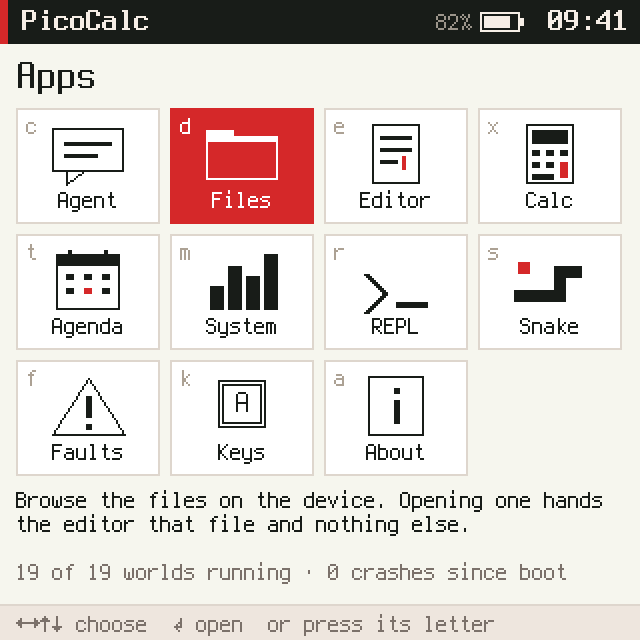
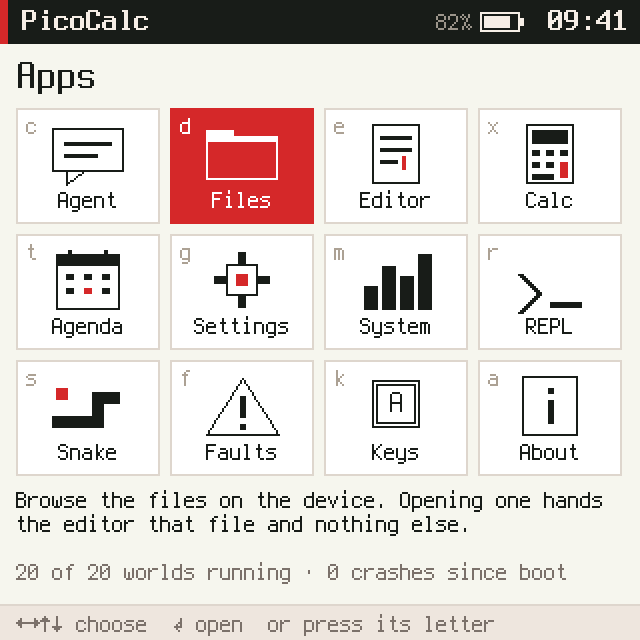
picocalc-os: a Settings app: Wi-Fi state, scan and join, the time zone, the provider (PICOCALC-SYS S4)
Settings (claims net.admin and sys.clock, launcher key g) shows the station's state, address, signal and
clock; scans on the way in (F2 again) with a detached chain that polls the port's result; joins an open
network at once and a locked one after a password typed as dots. The password is checked as the kernel will,
handed to net.join once and cleared, also on Esc and when the app loses focus; a held key does not type twice
into it. The zone page lists 22 zones with their UTC offsets and marks the one in effect. The provider page
says which host, dialect and model the agent uses and whether a key is provisioned, and that the key and
endpoint are set over USB only. Tests in tests/sysapps.test.mjs; captures 80 to 86 from scripts/settings.txt.

diff --git a/picocalc-os/js/apps/settings.js b/picocalc-os/js/apps/settings.js
@@ -1,0 +1,205 @@
+// Settings: the Wi-Fi station (its state, a scan, joining a network with a password typed here), the time zone, and
+// what the agent's provider is. The password is drawn as dots and cleared once it has been handed over; net.join
+// gives it to the port, and no operation gives it back. The API key and the endpoint are set over USB only.
+const ST_ZONES = [
+  ["UTC", "UTC0"],
+  ["London, Dublin, Lisbon", "GMT0BST,M3.5.0/1,M10.5.0"],
+  ["Berlin, Paris, Madrid, Rome", "CET-1CEST,M3.5.0,M10.5.0/3"],
+  ["Athens, Helsinki, Kyiv", "EET-2EEST,M3.5.0/3,M10.5.0/4"],
+  ["Istanbul, Moscow", "<+03>-3"],
+  ["Dubai", "<+04>-4"],
+  ["India", "IST-5:30"],
+  ["Bangkok, Jakarta", "<+07>-7"],
+  ["China, Singapore, Perth", "CST-8"],
+  ["Tokyo, Seoul", "JST-9"],
+  ["Brisbane", "AEST-10"],
+  ["Sydney, Melbourne", "AEST-10AEDT,M10.1.0,M4.1.0/3"],
+  ["Auckland", "NZST-12NZDT,M9.5.0,M4.1.0/3"],
+  ["Honolulu", "HST10"],
+  ["Anchorage", "AKST9AKDT,M3.2.0,M11.1.0"],
+  ["Los Angeles, Vancouver", "PST8PDT,M3.2.0,M11.1.0"],
+  ["Denver", "MST7MDT,M3.2.0,M11.1.0"],
+  ["Phoenix", "MST7"],
+  ["Chicago", "CST6CDT,M3.2.0,M11.1.0"],
+  ["New York, Toronto", "EST5EDT,M3.2.0,M11.1.0"],
+  ["Halifax", "AST4ADT,M3.2.0,M11.1.0"],
+  ["Sao Paulo, Buenos Aires", "<-03>3"],
+];
+const ST_MENU = ["wifi", "zone", "provider"];
+const ST_SCAN_MS = 12000, ST_JOIN_MS = 20000;
+const ST_DAYS = ["Sun", "Mon", "Tue", "Wed", "Thu", "Fri", "Sat"];
+const ST_MONTHS = ["Jan", "Feb", "Mar", "Apr", "May", "Jun", "Jul", "Aug", "Sep", "Oct", "Nov", "Dec"];
+
+// "EST5EDT,M3.2.0,M11.1.0" as "UTC-5 DST": POSIX counts hours west of Greenwich, so its sign is the other way round
+function stOffset(tz) {
+  const m = /^(?:<[^>]+>|[A-Za-z]+)([+-]?)(\d+)(?::(\d+))?(.*)$/.exec(tz);
+  if (!m) return tz;
+  const dst = m[4] ? " DST" : "";
+  if (+m[2] === 0 && !m[3]) return (dst ? "UTC+0" : "UTC") + dst;
+  return "UTC" + (m[1] === "-" ? "+" : "-") + +m[2] + (m[3] ? ":" + m[3] : "") + dst;
+}
+const stZoneName = (tz) => { const z = ST_ZONES.find((x) => x[1] === tz); return z ? z[0] : "custom: " + tz; };
+const stPad = (n) => String(n).padStart(2, "0");
+function stTime() {
+  if (!clock.set()) return "clock not set yet";
+  const d = new Date();
+  return `${ST_DAYS[d.getDay()]} ${d.getDate()} ${ST_MONTHS[d.getMonth()]} ${d.getFullYear()}, ${stPad(d.getHours())}:${stPad(d.getMinutes())}`;
+}
+// signal in four steps, drawn with the font's block characters
+const stBars = (rssi) => { const n = !rssi ? 0 : rssi >= -55 ? 4 : rssi >= -67 ? 3 : rssi >= -78 ? 2 : 1; return "█".repeat(n) + "░".repeat(4 - n); };
+// what a WPA passphrase may be, as the kernel checks it: 8 to 63 printable ASCII characters, or 64 hex digits
+const stPasswordOk = (p) => (p.length >= 8 && p.length <= 63 && /^[\x20-\x7e]+$/.test(p)) || /^[0-9a-fA-F]{64}$/.test(p);
+
+function stInfo(s) {
+  try { s.info = net.info(); s.error = ""; }
+  catch (e) { s.info = null; s.error = e.message; }
+  const j = s.joining;
+  if (!j || !s.info || s.info.ssid !== j.ssid) return;
+  if (s.info.wifi === "up") { s.note = "Connected to " + j.ssid + "."; s.joining = null; }
+  else if (s.info.wifi === "failed") { s.note = "Could not join " + j.ssid + ": " + s.info.state; s.joining = null; }
+  else if (now() - j.at > ST_JOIN_MS) { s.note = "Still trying " + j.ssid + "…"; s.joining = null; }
+}
+
+// The scan runs on the port's network worker; this chain polls for its result and never holds a turn open.
+function stScan(s) {
+  if (s.scanning) return;
+  try { net.scan(); } catch (e) { s.note = e.message; return; }
+  s.scanning = true; s.note = "Scanning…";
+  const t0 = now();
+  const poll = () => sleep(500).then(() => {
+    let r = null;
+    try { r = net.scanResult(); } catch (e) { r = { error: e.message }; }
+    if (r === null && now() - t0 < ST_SCAN_MS) return poll();
+    s.scanning = false;
+    if (r === null) s.note = "The scan did not finish.";
+    else if (!Array.isArray(r)) s.note = r.error || "The scan failed.";
+    else { s.nets = r; s.sel = 0; s.note = r.length ? "" : "No networks found."; }
+  });
+  poll();
+}
+
+function stJoin(s, ssid, password) {
+  try { net.join(ssid, password); }
+  catch (e) { s.note = e.message; return false; }
+  s.joining = { ssid, at: now() };
+  s.note = "Joining " + ssid + "…";
+  stInfo(s);
+  return true;
+}
+
+function stLeavePassword(s) { s.pw = ""; s.pick = null; s.page = "wifi"; }
+
+function stKey(s, k) {
+  if (!k || k.state === "up") return;
+  const once = k.state === "down";
+  if (s.page === "password") {
+    if (k.key === "esc" && once) { stLeavePassword(s); s.note = ""; return; }
+    if (k.key === "backspace") { s.pw = s.pw.slice(0, -1); return; }
+    if (k.key === "enter" && once) {
+      if (!stPasswordOk(s.pw)) { s.note = "A password is 8 to 63 characters, or 64 hex digits."; return; }
+      const ssid = s.pick, pw = s.pw;
+      stLeavePassword(s);
+      stJoin(s, ssid, pw);
+      return;
+    }
+    // a key held down sends "hold" too; in a password field that would type the character twice
+    if (once && typeof k.ch === "string" && /^[\x20-\x7e]$/.test(k.ch) && s.pw.length < 64) s.pw += k.ch;
+    return;
+  }
+  if (!once && k.key !== "up" && k.key !== "down") return;
+  if (k.key === "esc") { s.note = ""; if (s.page !== "menu") { s.sel = ST_MENU.indexOf(s.page); s.page = "menu"; } return; }
+  const n = s.page === "menu" ? ST_MENU.length : s.page === "wifi" ? (s.nets || []).length : s.page === "zone" ? ST_ZONES.length : 0;
+  if (k.key === "up") { s.sel = Math.max(0, s.sel - 1); return; }
+  if (k.key === "down") { s.sel = Math.max(0, Math.min(n - 1, s.sel + 1)); return; }
+  if (s.page === "menu" && (k.key === "enter" || k.key === "right")) {
+    s.page = ST_MENU[s.sel]; s.note = "";
+    s.sel = s.page === "zone" ? Math.max(0, ST_ZONES.findIndex((z) => z[1] === clock.zone())) : 0;
+    if (s.page === "wifi" && !s.nets) stScan(s);
+    return;
+  }
+  if (s.page === "wifi") {
+    if (k.key === "f2") return stScan(s);
+    const ap = (s.nets || [])[s.sel];
+    if (k.key === "enter" && ap) {
+      if (ap.secure) { s.page = "password"; s.pick = ap.ssid; s.pw = ""; s.note = ""; }
+      else stJoin(s, ap.ssid, "");
+    }
+    return;
+  }
+  if (s.page === "zone" && k.key === "enter") {
+    const z = ST_ZONES[s.sel];
+    try { const r = clock.setZone(z[1]); s.note = "Time zone: " + z[0] + (r.saved ? "." : " (until restart)."); }
+    catch (e) { s.note = e.message; }
+  }
+}
+
+function stWifiSummary(i) {
+  if (!i) return "unavailable";
+  if (i.mode === "none") return "not on this device";
+  return i.wifi === "up" ? "up · " + i.ssid : i.wifi === "connecting" ? "connecting · " + i.ssid : i.wifi === "failed" ? "failed · " + i.ssid : "off";
+}
+
+function stScreen(s) {
+  const i = s.info;
+  const status = ui.text(s.error || s.note || stTime(), { font: "s", color: s.error || s.note ? "accent" : "muted" });
+  if (s.page === "menu") {
+    const items = [
+      { label: "Wi-Fi", right: stWifiSummary(i) },
+      { label: "Time zone", right: stZoneName(clock.zone()) },
+      { label: "Provider", right: i ? (i.provider || "none") + (i.key ? " · key ✓" : " · no key") : "" },
+    ];
+    return ui.col({ gap: 6 }, ui.list(items, s.sel, { font: "m", grow: 1 }), status);
+  }
+  if (s.page === "wifi" || s.page === "password") {
+    const up = i && i.wifi === "up";
+    const top = ui.kv([
+      ["state", i ? (up ? `up, ${i.ip}, ${i.rssi} dBm` : i.state) : "unavailable", up ? "ink" : i && i.wifi === "failed" ? "accent" : "muted"],
+      ["network", i && i.ssid ? i.ssid : "none"],
+      ["clock", i && i.clock ? "set" : "not set (it needs the network)"],
+    ], { keyW: 70, lead: 3 });
+    if (s.page === "password") {
+      return ui.col({ gap: 6 }, top, ui.sep(),
+        ui.text("Password for " + s.pick, { font: "m" }),
+        ui.input("•".repeat(s.pw.length), { font: "m" }),
+        ui.text("8 to 63 characters. It is saved on the device and never shown again.", { font: "s", color: "muted", wrap: true }),
+        ui.col({ grow: 1 }), status);
+    }
+    const nets = (s.nets || []).map((n) => ({ label: n.ssid, right: stBars(n.rssi) + "  " + (n.secure ? "locked" : "open"),
+                                               color: i && i.ssid === n.ssid && up ? "accent" : "" }));
+    return ui.col({ gap: 6 }, top, ui.sep(),
+      nets.length ? ui.list(nets, s.sel, { font: "s", lead: 6, grow: 1 })
+        : ui.text(s.scanning ? "Looking for networks…" : "F2 looks for networks.", { font: "s", color: "muted", grow: 1 }),
+      status);
+  }
+  if (s.page === "zone") {
+    const cur = clock.zone();
+    const items = ST_ZONES.map(([name, tz]) => ({ label: name, right: (tz === cur ? "✓ " : "") + stOffset(tz), rightColor: tz === cur ? "accent" : "muted" }));
+    return ui.col({ gap: 6 }, ui.list(items, s.sel, { font: "s", lead: 5, grow: 1 }), status);
+  }
+  return ui.col({ gap: 6 },
+    ui.kv([
+      ["provider", i && i.provider ? i.provider : "none"],
+      ["dialect", i ? i.api : ""],
+      ["model", i && i.model ? i.model : "the agent's default"],
+      ["API key", i && i.key ? "provisioned" : "missing", i && i.key ? "ink" : "accent"],
+    ], { keyW: 70, lead: 4 }),
+    ui.sep(),
+    ui.text("The key and the endpoint are set over USB with tools/provision_agent.py, so no app can read the key or send it elsewhere.", { font: "s", wrap: true }),
+    ui.text("Choose another model in Agent with /model.", { font: "s", wrap: true, color: "muted" }),
+    ui.col({ grow: 1 }), status);
+}
+
+const stHints = (s) => s.page === "password" ? "⏎ join  esc cancel"
+  : s.page === "wifi" ? "↑↓ choose  ⏎ join  F2 scan  esc back"
+  : s.page === "zone" ? "↑↓ choose  ⏎ set  esc back"
+  : s.page === "provider" ? "esc back" : "↑↓ choose  ⏎ open";
+
+app("settings")
+  .title("Settings")
+  .state({ page: "menu", sel: 0, info: null, nets: null, scanning: false, joining: null, pick: null, pw: "", note: "", error: "", focused: false })
+  .on("focus", (s) => { s.focused = true; stInfo(s); })
+  .on("blur", (s) => { s.focused = false; if (s.page === "password") stLeavePassword(s); })
+  .on("key", (s, k, msg) => { if (msg.from === "compositor") stKey(s, k); })
+  .every(1000, (s) => { if (s.focused || s.joining) stInfo(s); })
+  .screen(stScreen)
+  .hints(stHints);

diff --git a/picocalc-os/js/apps/launcher.js b/picocalc-os/js/apps/launcher.js
@@ -12,6 +12,9 @@ const APPS = [
   { app: "agenda", key: "t", label: "Agenda", about: "Tasks from notes/todo.txt by day, with reminders on the network clock.",
     ops: [["rect", 4, 2, 32, 28], ["fill", 4, 2, 32, 6], ["fill", 10, 0, 2, 5], ["fill", 28, 0, 2, 5],
           ["fill", 9, 12, 4, 3], ["fill", 18, 12, 4, 3], ["fill", 27, 12, 4, 3], ["fill", 9, 19, 4, 3], ["fill", 18, 19, 4, 3, "accent"], ["fill", 27, 19, 4, 3]] },
+  { app: "settings", key: "g", label: "Settings", about: "Wi-Fi: its state, nearby networks, joining one. The time zone, and the agent's provider.",
+    ops: [["rect", 12, 7, 16, 16], ["fill", 18, 1, 4, 6], ["fill", 18, 23, 4, 6], ["fill", 6, 13, 6, 4], ["fill", 28, 13, 6, 4],
+          ["fill", 17, 12, 6, 6, "accent"]] },
   { app: "sysmon", key: "m", label: "System", about: "Every world, its memory, its turns and the buses, live.",
     ops: [["fill", 4, 18, 7, 12], ["fill", 13, 8, 7, 22], ["fill", 22, 13, 7, 17], ["fill", 31, 2, 7, 28]] },
   { app: "repl", key: "r", label: "REPL", about: "JavaScript, evaluated in a sandbox world with its own heap and budget.",
